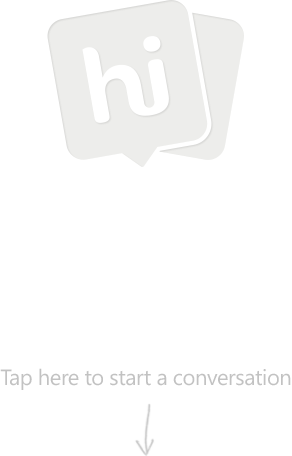
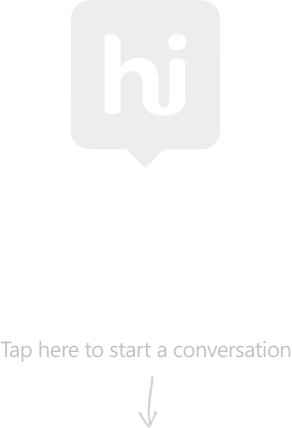
Changing empty screen tip

diff --git a/windows-client/View/ConversationsList.xaml b/windows-client/View/ConversationsList.xaml
@@ -43,7 +43,7 @@
 
                     <!--ContentPanel - place additional content here-->
 
-                    <Image Grid.Column="0" Grid.Row="0" x:Name="emptyScreenImage" Height="456" Width="292" Opacity="0" Margin="0,90,0,0">
+                    <Image Grid.Column="0" Grid.Row="0" x:Name="emptyScreenImage" Height="428" Width="292" Opacity="0" Margin="0,108,5,0">
                         <Image.Source>
                             <BitmapImage UriSource="images\empty_screen_tip.png" CreateOptions="BackgroundCreation"/>
                         </Image.Source>
